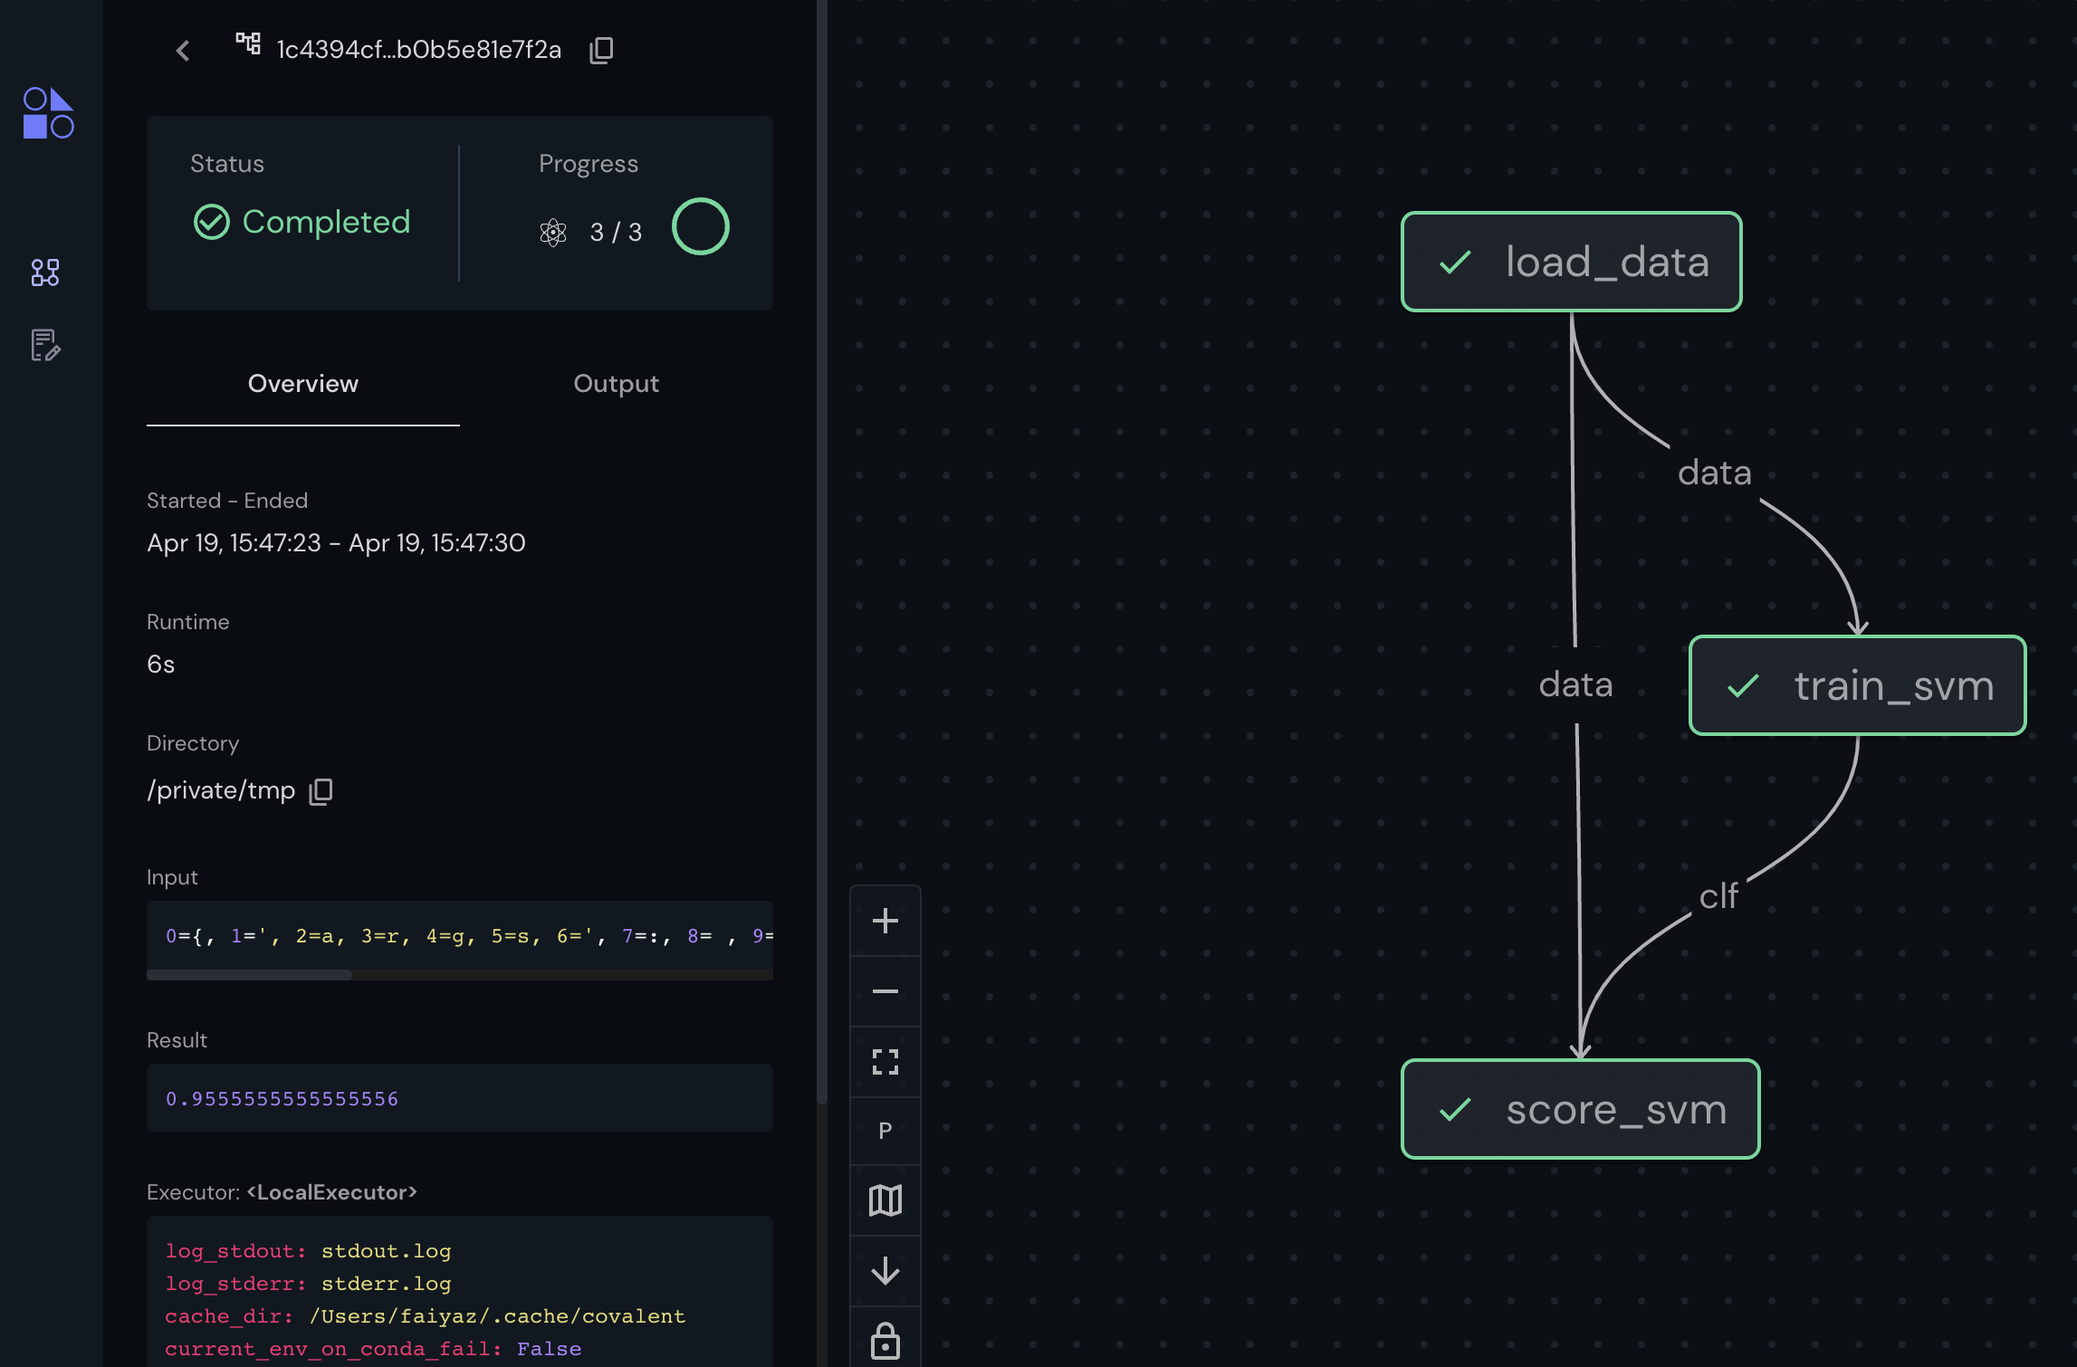
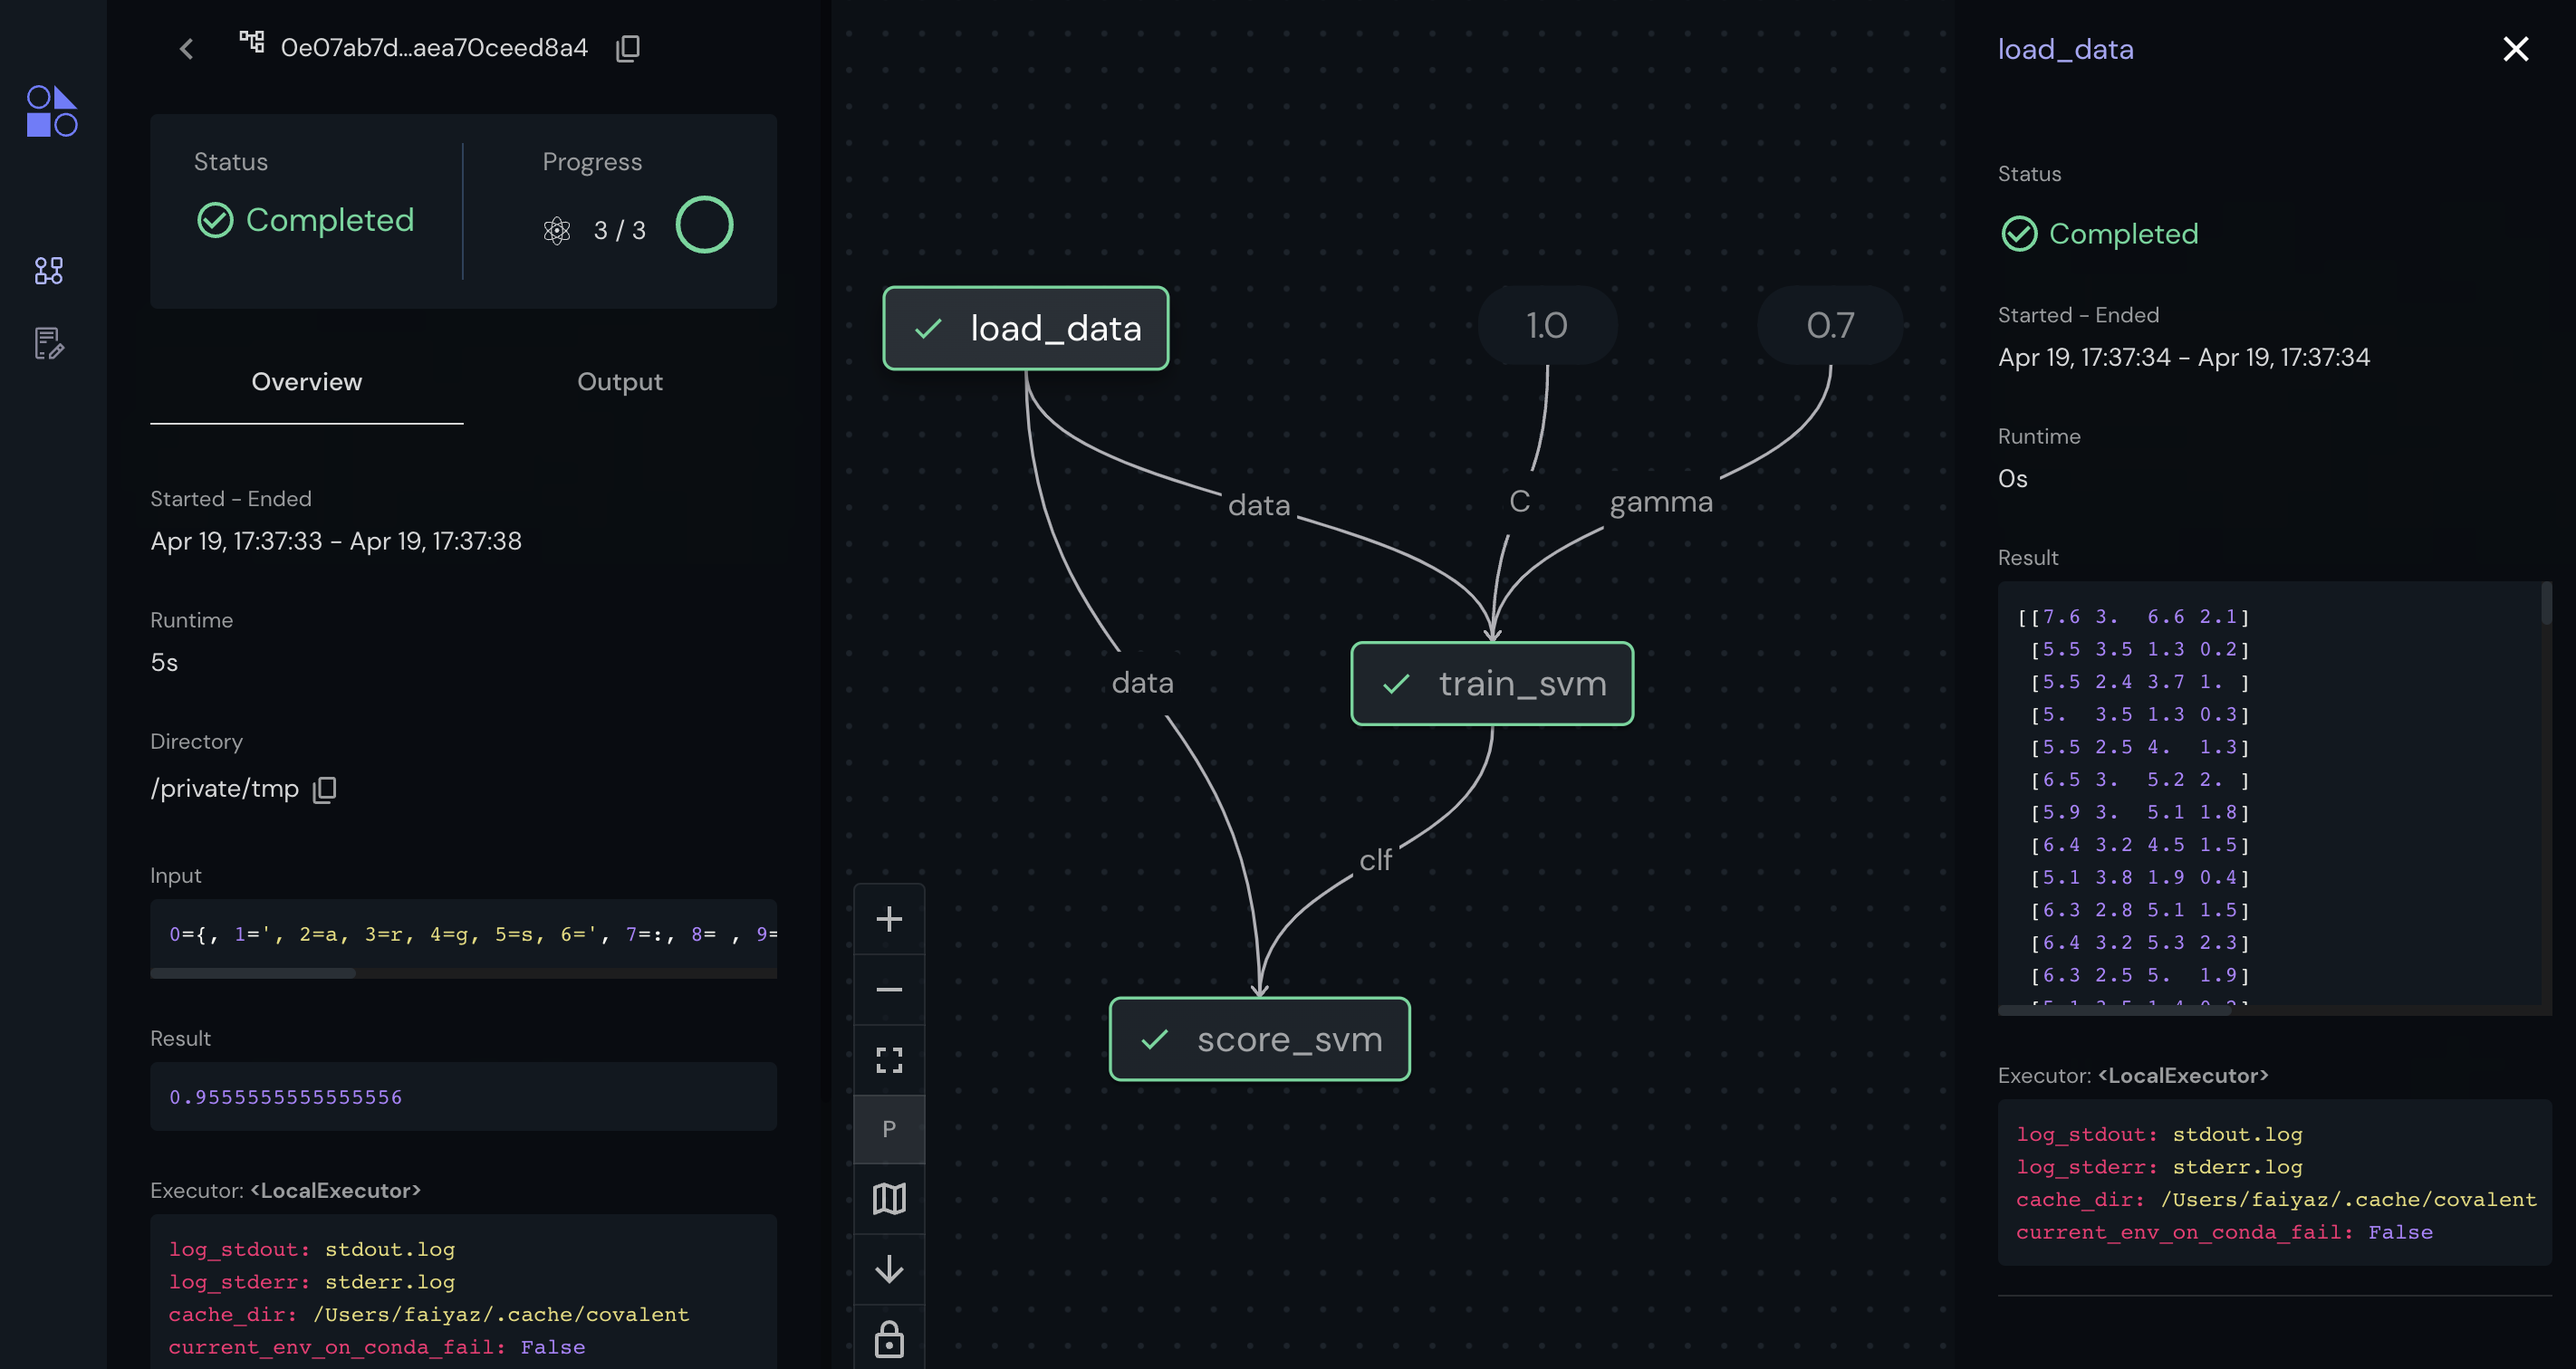
update concepts page

diff --git a/doc/source/concepts/concepts.rst b/doc/source/concepts/concepts.rst
@@ -412,7 +412,7 @@ The progress of the electron execution can be tracked using the Covalent UI.
 
 .. image:: ./images/status_check.png
     :align: center
-    :scale: 45 %
+    :scale: 40 %
 
 
 The user can view the dependencies among the various electrons in addition to the execution status (running, completed, not started, failed, or cancelled). Additional information on how long each task has been running for, or the total execution time is also shown in the Covalent UI.

diff --git a/CHANGELOG.md b/CHANGELOG.md
@@ -7,15 +7,15 @@ and this project adheres to [Semantic Versioning](https://semver.org/spec/v2.0.0
 
 ## [UNRELEASED]
 
+### Docs
+
+- Update the concepts page according to the new web UI.
+
 ## [0.89.0] - 2022-04-19
 
 ### Changed
 
 - Made release.yml callable and moved the pypi job into that workflow
-
-### Docs
-
-- Update the concepts page according to the new web UI.
 
 ### Docs
 
